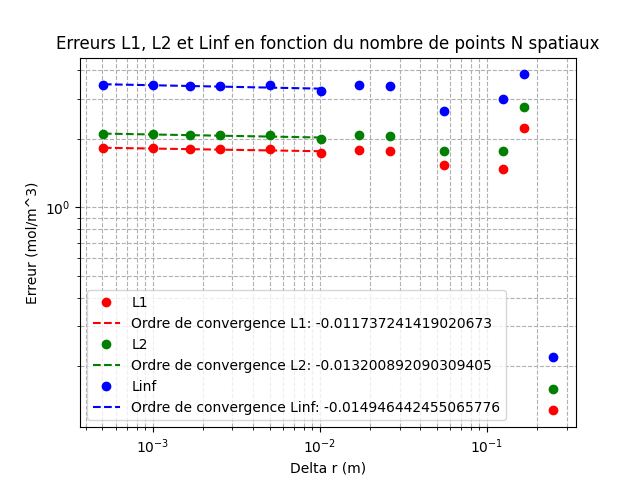
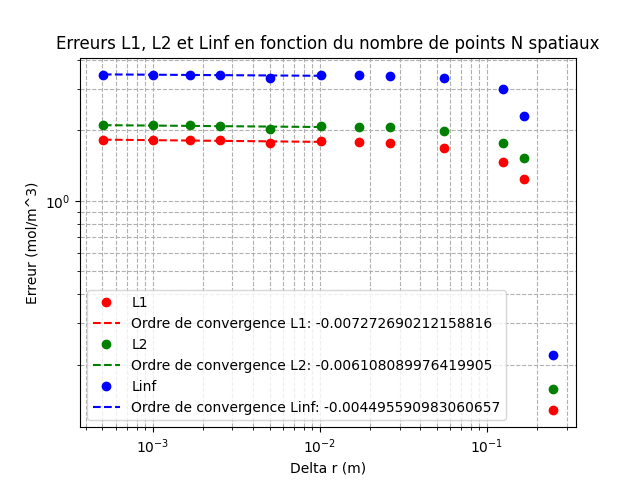
Passage d'une liste des delta à une liste des N dans l'analyse de convergence

diff --git a/Devoir 2/src/main.py b/Devoir 2/src/main.py
@@ -80,20 +80,17 @@ plt.show()
 ##############################################################################
 # Analyse de convergence spatiale avec delta temporel fixé à 3,1536e7 s (1 an)
 ##############################################################################
-list_delta_r=[0.25, 0.166666667, 0.125, 0.055555556, 
-              0.026315789, 0.017241379, 0.010204082, 
-              0.005050505, 0.002512563, 0.001672241, 
-              0.001002004, 0.000500501]
-delta_t = (3.1536e7)      # 1 an en s
-vectDelta_r = np.zeros(len(list_delta_r))
-vectL1 = np.zeros(len(list_delta_r))
-vectL2 = np.zeros(len(list_delta_r))
-vectLinf = np.zeros(len(list_delta_r))
+list_N_spatiaux=[3, 4, 5, 10, 20, 30, 50, 100, 200, 300, 500, 1000]
 
-for i in (range(len(list_delta_r))):
-    delta_r = list_delta_r[i]
-    N = R / delta_r + 1
-    N = int(N)
+delta_t = (3.1536e7)      # 1 an en s
+vectDelta_r = np.zeros(len(list_N_spatiaux))
+vectL1 = np.zeros(len(list_N_spatiaux))
+vectL2 = np.zeros(len(list_N_spatiaux))
+vectLinf = np.zeros(len(list_N_spatiaux))
+
+for i in (range(len(list_N_spatiaux))):
+    delta_r = R/(list_N_spatiaux[i]-1)
+    N = list_N_spatiaux[i]
     
     C_i, r_i, t_i=functions.Concentrations(delta_r, delta_t)
     y_values = C_chapeau(r_i, Tf)
@@ -140,18 +137,17 @@ plt.show()
 ##############################################################################
 # Analyse de convergence temporelle avec delta spatial fixé à 0,125 m (5 points)
 ##############################################################################
-list_delta_t=[935000000, 415555555.55555600, 128965517.24137900, 76326530.61224490,
-37777777.77777780, 12508361.20401340, 7494989.97995992, 3743743.74374374]
-delta_r = 0.125      # en m
-vectDelta_t = np.zeros(len(list_delta_t))
-vectL1 = np.zeros(len(list_delta_t))
-vectL2 = np.zeros(len(list_delta_t))
-vectLinf = np.zeros(len(list_delta_t))
+list_N_temporel=[3, 4, 5, 10, 20, 30, 50, 100, 200, 300, 500, 1000]
 
-for i in (range(len(list_delta_t))):
-    delta_t = list_delta_t[i]
-    N = Tf / delta_t + 1
-    N = int(N)
+delta_r = 0.125      # en m
+vectDelta_t = np.zeros(len(list_N_temporel))
+vectL1 = np.zeros(len(list_N_temporel))
+vectL2 = np.zeros(len(list_N_temporel))
+vectLinf = np.zeros(len(list_N_temporel))
+
+for i in (range(len(list_N_temporel))):
+    delta_t = Tf/(list_N_temporel[i]-1)
+    N = list_N_temporel[i]
     
     C_i, r_i, t_i=functions.Concentrations(delta_r, delta_t)
     y_values = C_chapeau(0.25, t_i)

diff --git a/Devoir 2/src/functions.py b/Devoir 2/src/functions.py
@@ -42,9 +42,9 @@ def terme_source(r,t):
 ###########################
 def Concentrations(delta_r, delta_t):
     # Discrétisation
-    N_spatial = R / delta_r + 1
+    N_spatial = (R / delta_r) + 1
     N_spatial = int(N_spatial)
-    N_Temporel = Tf / delta_t + 1
+    N_Temporel = (Tf / delta_t) + 1
     N_Temporel = int(N_Temporel)
     r_i = np.linspace(0, R, N_spatial)
     t_i = np.linspace(0, Tf, N_Temporel)
